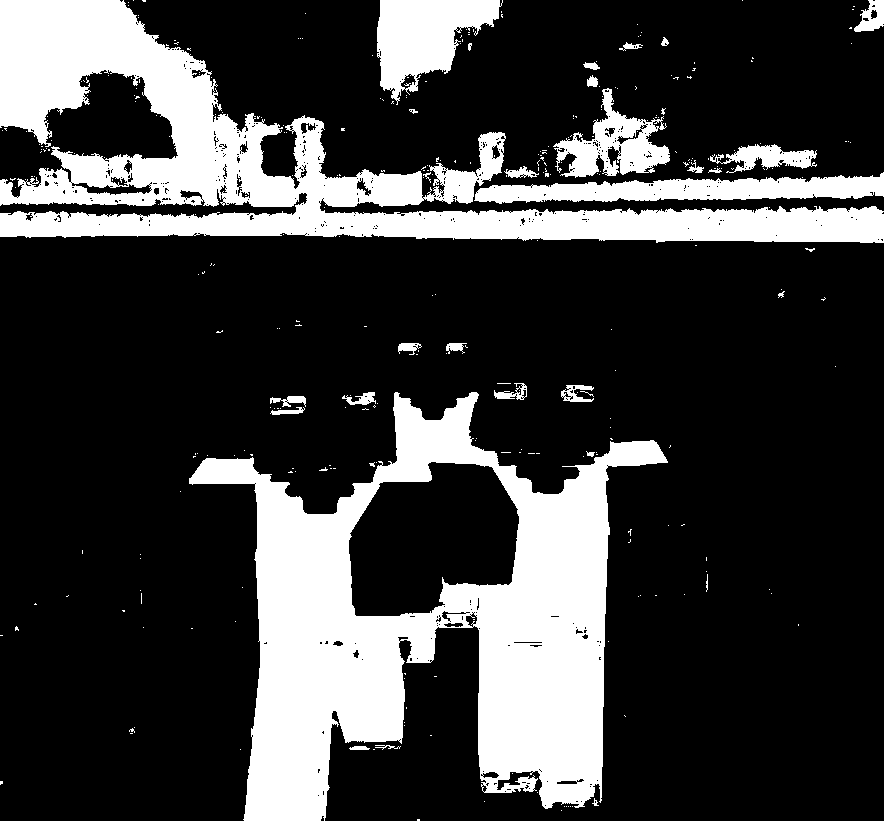
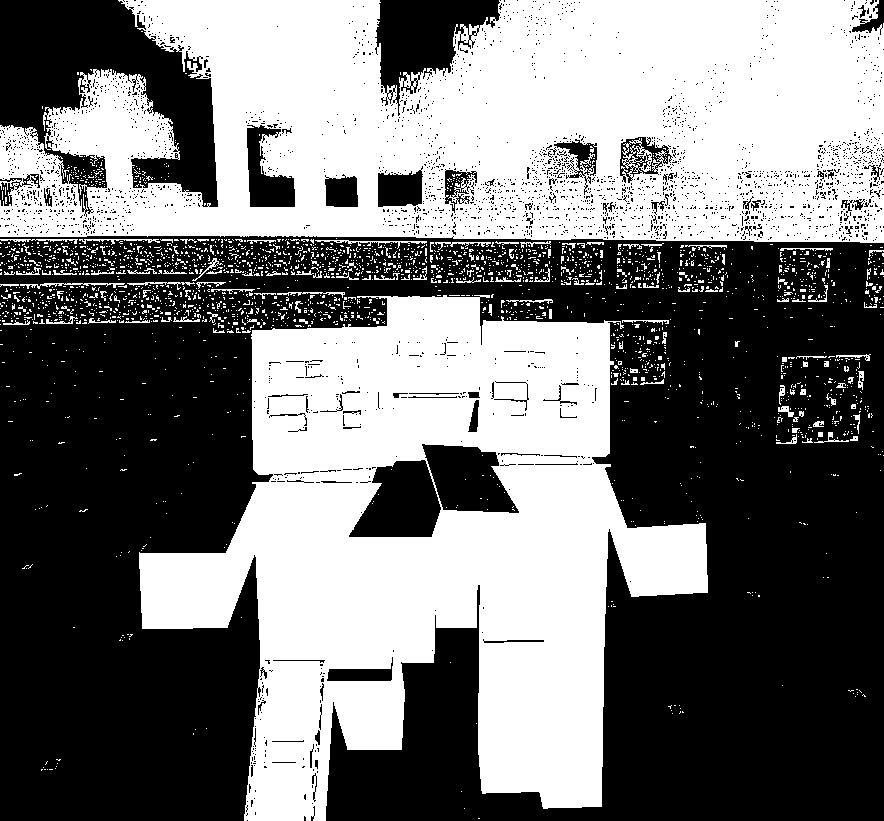
version 1 mask

diff --git a/main.py b/main.py
@@ -7,61 +7,45 @@ from matplotlib import pyplot as plt
 
 MIN_MATCH_COUNT = 10
 FLANN_INDEX_KDTREE = 1
-MAX_PERCENTAGE_FILTER_MASK = 50
+MAX_DISTANCE = 150
 
 def create_mask(queryImage, trainImage):
-    hueValues = []
 
-    queryImageHLS = cv2.cvtColor(queryImage, cv2.COLOR_BGR2HLS)
+    mediaB = 0
+    mediaG = 0
+    mediaR = 0
 
-    # Get the color palette of the sprite
-    for row in queryImageHLS:
+    for row in queryImage:
         for element in row:
-            h, l, s = element # TODO: CHECK IF ITS THE THIRDTH POSITION IS THE HUE ??
+           b, g, r = element
+
+           mediaB += b
+           mediaG += g
+           mediaR += r
+
+    mediaB = mediaB/queryImage.size
+    mediaG = mediaG/queryImage.size
+    mediaR = mediaR/queryImage.size
             
-            if h not in hueValues:
-                hueValues.append(h)
-
-    print(hueValues)
-    trainImage = cv2.medianBlur(trainImage, 7)
-
-    # trainImage = trainImage.astype(numpy.float32) / 255
-
-    trainImageHLS = cv2.cvtColor(trainImage, cv2.COLOR_BGR2HLS)
-
-    delta = 20 #numpy.floor((360 * MAX_PERCENTAGE_FILTER_MASK)/(100 * len(hueValues) * 2))
-
-    hueValuesIncremented = []
-
-    for value in hueValues:
-        for d in range(int(-delta), int(delta)):
-            hueValuesIncremented.append(int(value + d))
-
-    #TODO: to the loop with hls values (360 to 0)
-    hueValuesIncremented = set(hueValuesIncremented)
-
-    print(hueValuesIncremented)
-
-    heigth = trainImageHLS.shape[0]
-    width = trainImageHLS.shape[1]
+    heigth = trainImage.shape[0]
+    width = trainImage.shape[1]
 
     mask = trainImage.copy()
 
     for y in range(0, heigth):
         for x in range(0, width):
-            h, l, s = trainImageHLS[y, x]
-            if h in hueValuesIncremented:
-                mask[y, x][0] = 1
-                mask[y, x][1] = 1
-                mask[y, x][2] = 1
+            b, g, r = trainImage[y, x]
+            dist = numpy.sqrt((mediaB - b)**2 + (mediaG - g)**2 + (mediaR - r)**2)
+            
+            if dist < MAX_DISTANCE:
+                mask[y, x] = [1, 1, 1]
             else:
-                mask[y, x][0] = 0
-                mask[y, x][1] = 0
-                mask[y, x][2] = 0
-
+                mask[y, x] = [0, 0, 0]
+        
     cv2.imwrite('mask.png', mask * 255)
     cv2.imwrite('trainImage.png', trainImage)
-    cv2.waitKey()
+
+    return mask[:,:,0]
 
 
 def main():
@@ -81,8 +65,8 @@ def main():
     mask = create_mask(queryImage.getOriginalImage(), trainImage)
 
     # Find the keypoints and descriptors with SIFT
-    kp1, des1 = sift.detectAndCompute(queryImage.getImage(),None)
-    kp2, des2 = sift.detectAndCompute(trainImage,None)
+    kp1, des1 = sift.detectAndCompute(queryImage.getImage(), mask)
+    kp2, des2 = sift.detectAndCompute(trainImage, mask)
 
     index_params = dict(algorithm = FLANN_INDEX_KDTREE, trees = 5)
     search_params = dict(checks = 50)
